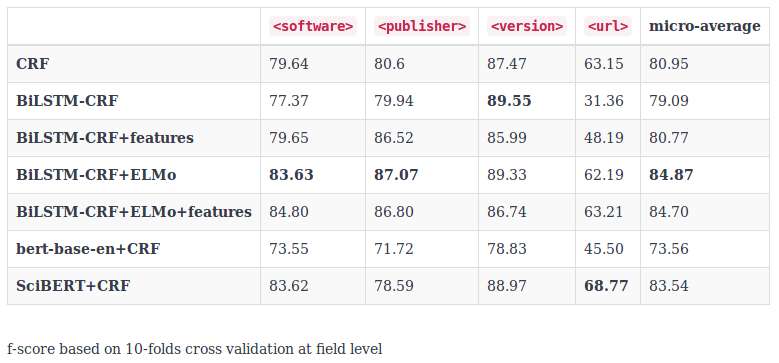
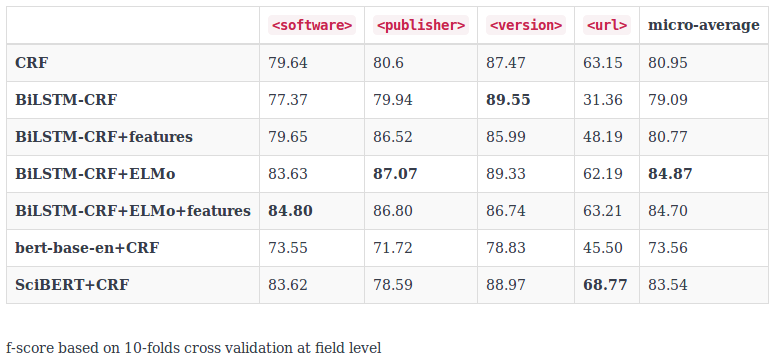
small typo in table

diff --git a/doc/latex/scores/scores-summary.tex b/doc/latex/scores/scores-summary.tex
@@ -14,8 +14,8 @@
 CRF (custom features) &  79.64   &   80.6   &   87.47   &   63.15  & 80.95 \\   
 BiLSTM-CRF &   77.37      &  79.94      &  {\bf 89.55} &  31.36   &     79.09 \\ 
 BiLSTM-CRF+features &  79.65 &   86.52 &  85.99 & 48.19  & 80.77 \\  
-BiLSTM-CRF+ELMo & {\bf 83.63} & {\bf 87.07} & 89.33 & 62.19  & {\bf 84.87} \\ 
-BiLSTM-CRF+ELMo+features & 84.80 & 86.80 & 86.74 & 63.21 & 84.70 \\ 
+BiLSTM-CRF+ELMo & 83.63 & {\bf 87.07} & 89.33 & 62.19  & {\bf 84.87} \\ 
+BiLSTM-CRF+ELMo+features & {\bf 84.80} & 86.80 & 86.74 & 63.21 & 84.70 \\ 
 bert-base-en+CRF & 73.55 & 71.72 & 78.83 & 45.50 & 73.56 \\ 
 SciBERT+CRF & 83.62 & 78.59 & 88.97 & {\bf 68.77} & 83.54 \\
 \hline

diff --git a/README.md b/README.md
@@ -259,8 +259,8 @@ The results (precision, recall, f-score) for all the models have been obtained u
 | **CRF**   |   79.64      |   80.6        |    87.47    |   63.15  |     80.95         | 
 |**BiLSTM-CRF**|   77.37      |   79.94       |  **89.55**  |  31.36   |     79.09         | 
 |**BiLSTM-CRF+features**|   79.65 |   86.52   |    85.99    |  48.19   |     80.77         | 
-|**BiLSTM-CRF+ELMo**| **83.63** | **87.07**   |    89.33    |  62.19   |   **84.87**       | 
-|**BiLSTM-CRF+ELMo+features**| 84.80 | 86.80  |    86.74    |  63.21   |     84.70         | 
+|**BiLSTM-CRF+ELMo**| 83.63 | **87.07**   |    89.33    |  62.19   |   **84.87**       | 
+|**BiLSTM-CRF+ELMo+features**| **84.80** | 86.80  |    86.74    |  63.21   |     84.70         | 
 |**bert-base-en+CRF**|  73.55  |  71.72        |   78.83     |  45.50   |     73.56         | 
 |**SciBERT+CRF**|     83.62    |  78.59        |   88.97     |**68.77** |     83.54         | 
 
